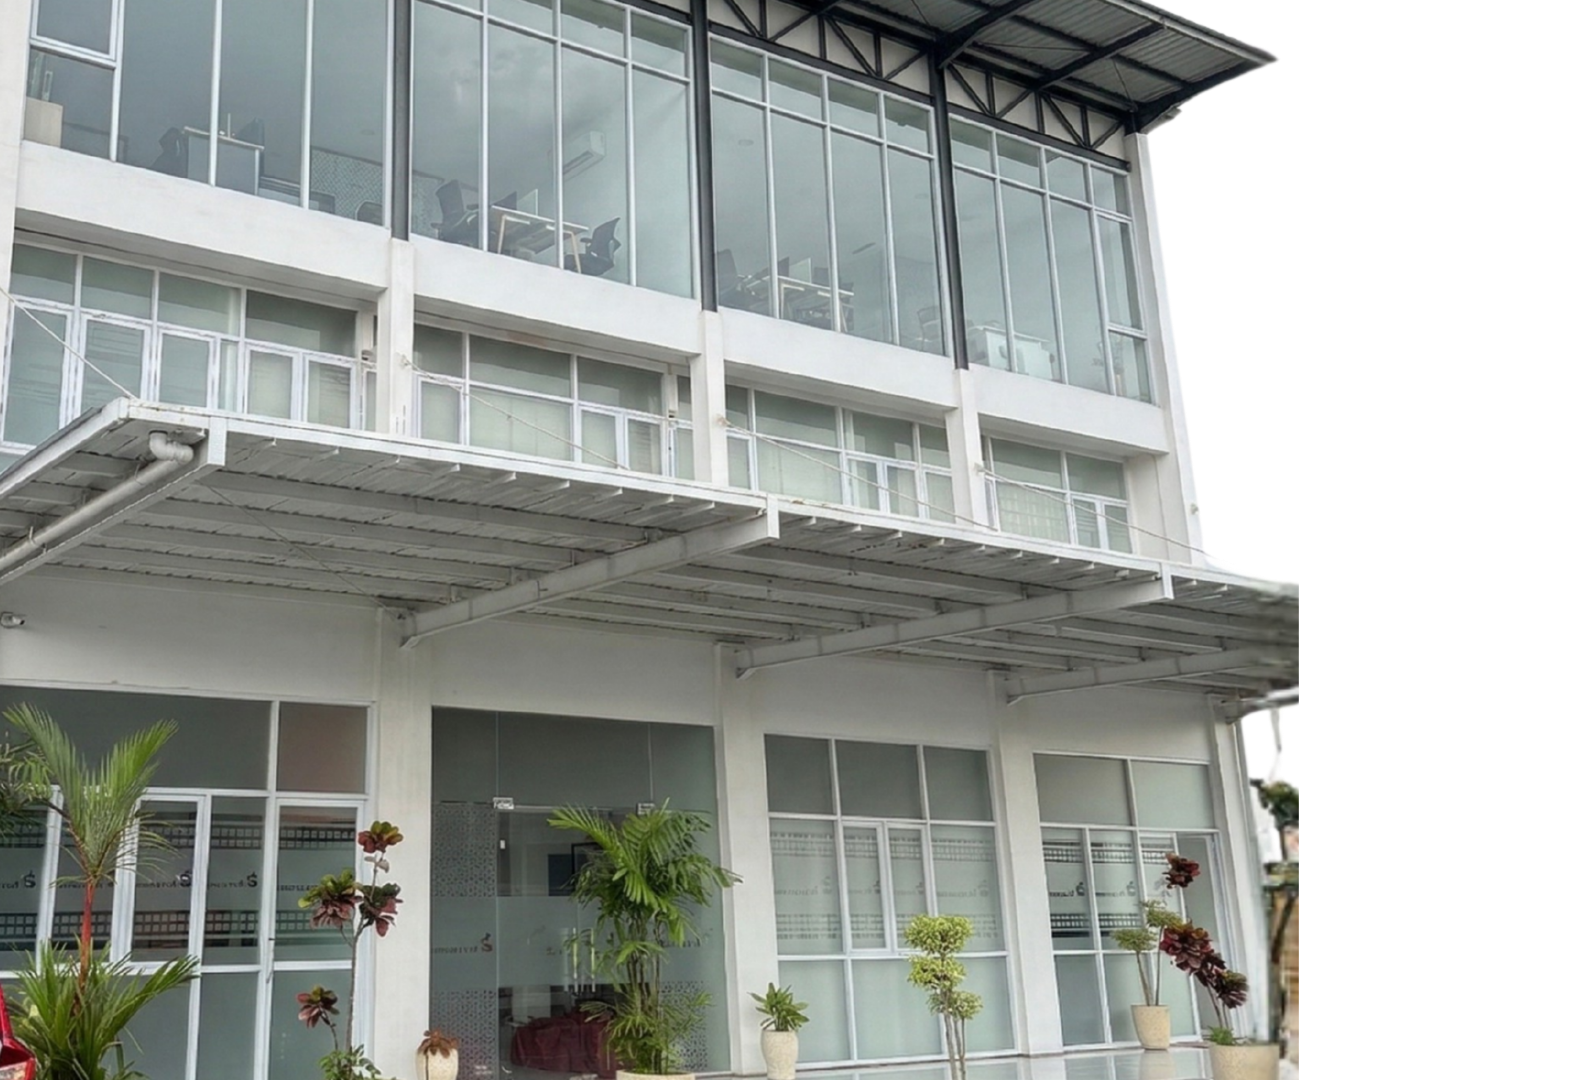
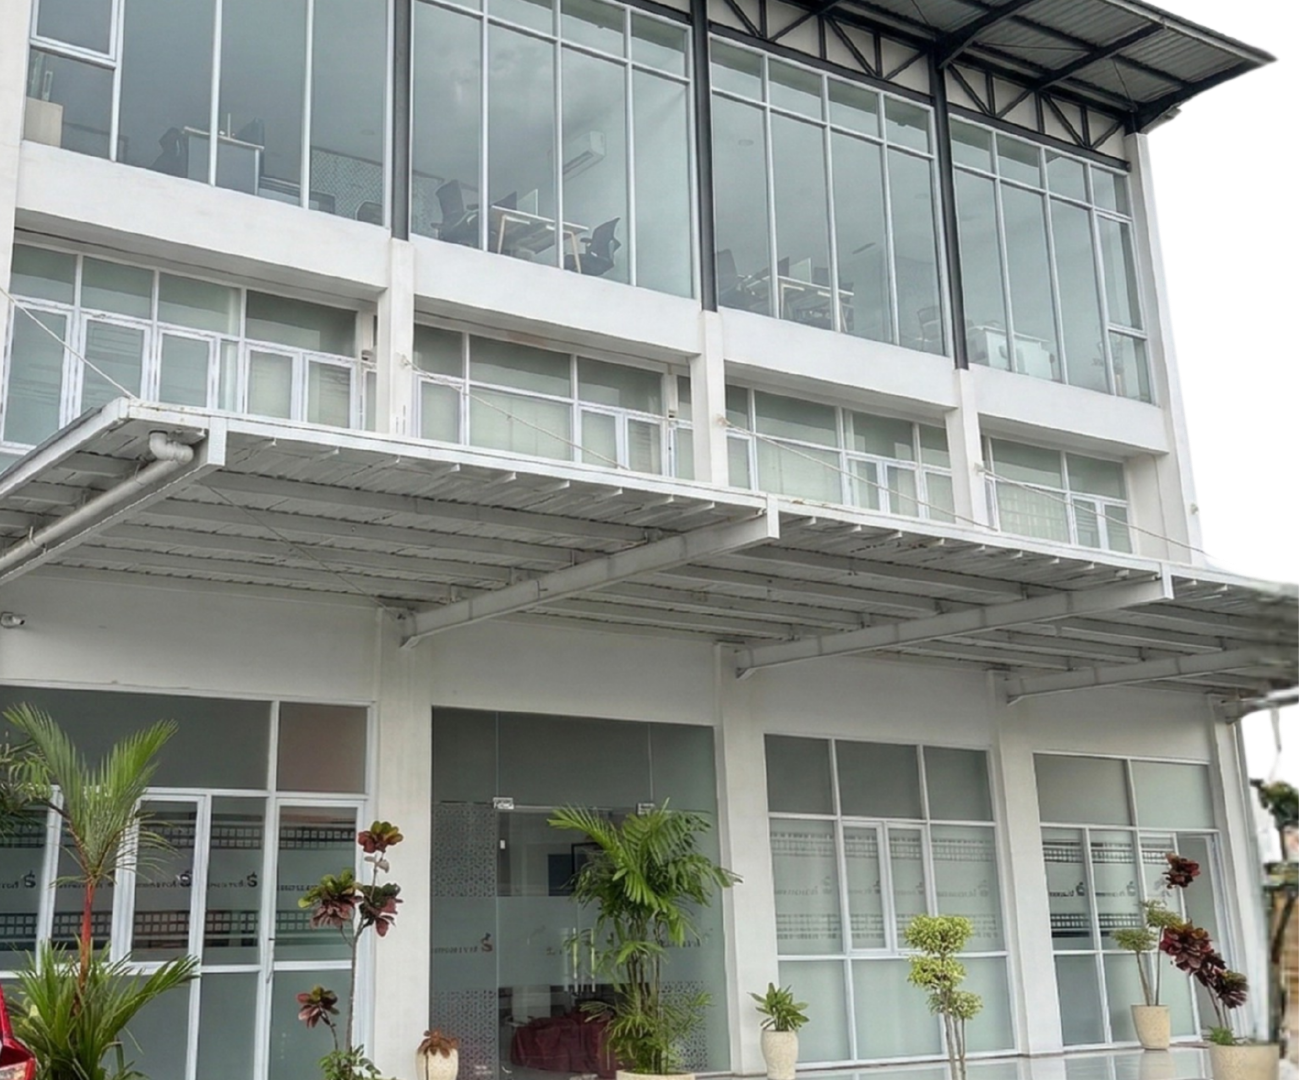
Add login background imagebg3

diff --git a/src/pages/LoginPage.jsx b/src/pages/LoginPage.jsx
@@ -38,7 +38,7 @@ const SYSTEM_CONFIG = {
     darkBg: '#ffffff',      // ← UBAH DI SINI: Background panel kiri jadi putih
     grayBg: '#ffffff',    // ← background panel kanan
     textMain: '#18181b',
-    textMuted: '#9CA3AF',
+    textMuted: '#4B5563',
     borderLight: '#D1D5DB',
     white: '#ffffff',
   },
@@ -500,7 +500,13 @@ function Checkbox({ checked, onChange, label }) {
           </svg>
         )}
       </div>
-      <span style={{ fontSize: 12, color: '#6B7280' }}>{label}</span>
+      <span style={{ 
+        fontSize: 12, 
+        color: '#374151', /* Sebelumnya '#6B7280', sekarang dihitamkan sedikit */
+        fontWeight: 500   /* Tambahkan ini agar teks menonjol di atas kaca */
+      }}>
+        {label}
+      </span>
     </label>
   );
 }
@@ -630,28 +636,23 @@ export default function LoginPage() {
     }
 
     /* 2. LAYER KHUSUS GAMBAR BACKGROUND */
-/* 2. LAYER KHUSUS GAMBAR BACKGROUND */
     .login-page-container::before {
       content: "";
       position: absolute;
       top: 0;
-      left: 0;       /* Kembalikan ke 0 karena gambar sudah rapi */
+      left: 0;
       bottom: 0;
-      width: 100%;   /* Bentangkan 100% layar agar tidak ada batas terpotong */
+      width: 100%; 
       
+      /* PERUBAHAN: Opasitas ujung kanan diturunkan dari 0.85 ke 0.40 agar gambar tembus ke form */
       background-image: 
-        linear-gradient(to right, rgba(255, 255, 255, 0.25) 0%, rgba(255, 255, 255, 0.8) 100%),
-        url('/office-bg3.png'); 
+        linear-gradient(to right, rgba(255, 255, 255, 0.15) 0%, rgba(255, 255, 255, 0.40) 100%),
+        url('/office-bg1.jpeg'); /* Pastikan nama file sesuai dengan yang Anda pakai sekarang */
       
       background-size: cover;
-      background-position: left center;
+      background-position: center; 
       background-repeat: no-repeat;
       z-index: 1; 
-      
-      /* --- GRADASI MEMUDAR (FADE OUT) YANG HALUS --- */
-      /* Gambar 100% terlihat hingga batas 35% layar, lalu perlahan menghilang total di 65% layar */
-      -webkit-mask-image: linear-gradient(to right, rgba(0,0,0,1) 35%, rgba(0,0,0,0) 65%);
-      mask-image: linear-gradient(to right, rgba(0,0,0,1) 35%, rgba(0,0,0,0) 65%);
     }
 
     /* 3. PANEL KIRI (Teks Judul) */
@@ -687,12 +688,23 @@ export default function LoginPage() {
       padding: 2.2rem 3rem;
       position: relative;
       z-index: 30;
-      background: rgba(255,255,255,0.92);
-      backdrop-filter: blur(16px);
+      
+      /* --- EFEK KACA MELAYANG (GLASSMORPHISM) --- */
+      /* 1. Transparansi diturunkan (0.45) agar background gedung terlihat membayang */
+      background: rgba(255, 255, 255, 0.45); 
+      
+      /* 2. Blur diturunkan sedikit agar tekstur gedung terlihat, tapi teks form tetap mudah dibaca */
+      backdrop-filter: blur(16px);         
       -webkit-backdrop-filter: blur(16px);
+      
+      /* 3. Border putih solid inilah yang menahan bentuk form agar tetap terlihat melayang (JANGAN DIHAPUS) */
+      border: 1.5px solid rgba(255, 255, 255, 0.85); 
+      
+      /* 4. Shadow sedikit ditebalkan agar form pop-out dari background */
+      box-shadow: 0 10px 40px rgba(0,0,0,0.12);
+      /* ------------------------------------------ */
+      
       border-radius: 26px;
-      border: 1px solid rgba(255,255,255,0.65);
-      box-shadow: 0 10px 40px rgba(0,0,0,0.08);
       animation: slideInFromRight 0.6s cubic-bezier(0.16,1,0.3,1);
     }
 
@@ -795,7 +807,7 @@ return (
               <h2 style={{ fontSize: 24, fontWeight: 700, margin: '0 0 6px', color: SYSTEM_CONFIG.colors.sapphire, letterSpacing: '-0.02em' }}>
                 Welcome back !
               </h2>
-              <p style={{ fontSize: 13, color: SYSTEM_CONFIG.colors.textMuted, margin: 0 }}>
+              <p style={{ fontSize: 13, color: SYSTEM_CONFIG.colors.textMuted, fontWeight: 500, margin: 0 }}>
                 Please enter your details
               </p>
             </div>